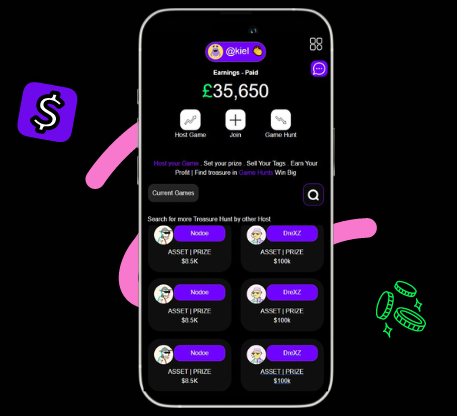
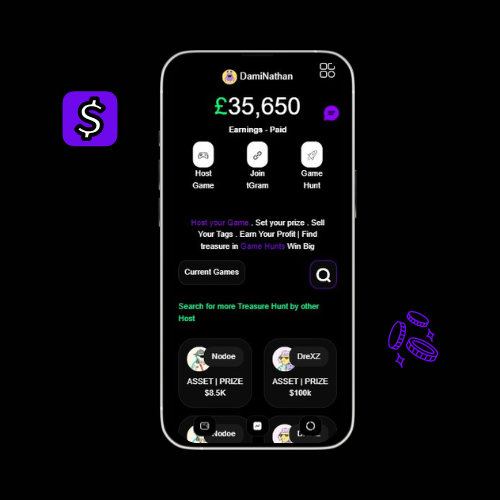
sir d

Changed region(s): [[0.1838, 0.0, 0.8271, 1.0], [0.0306, 0.1562, 0.2451, 0.3438], [0.7659, 0.625, 0.9497, 0.8125]]

diff --git a/SearchGames.html b/SearchGames.html
@@ -156,21 +156,21 @@
 
 <section class="MOB">
    
-
- <!-- The profile Header -->
-<section style="margin-top: 0.1rem; margin-bottom: 1rem; "  class="text-left  ">
-    <div class="text-center">
-      <button style="background-color: #7300ff; border: 2px solid rgb(99, 63, 141); padding: 0.3rem; border-radius: 2rem; ">
-        <div class=" text-white  o8 ">
-          <img class="p-img" src="./images/00 (1).png" width="40"  >
-          @kiel  👏
-          </div>
-      </button>
+  
+<!-- The profile Header -->
+<section style=" margin-bottom: 0.2rem; "  class="text-left  ">
+  <div class="text-center">
+    <div style=" padding: 0.3rem; border-radius: 1rem; ">
+      <div style="font-size: 1.2rem;" class=" text-white  o8 ">
+        <img class="p-img" src="./images/00 (1).png" width="30"  >
+        DamiNathan
+        </div>
     </div>
-  
-  
-  </section>
-  <!-- The profile header -->
+  </div>
+
+
+</section>
+<!-- The profile header -->
 
 
   <!-- ------------------------------------------ -->
@@ -339,7 +339,7 @@
                    </a>
                 </div>
                 <div class="col col-md-6 mb-3">
-                   <a  href="./Description.html">
+                   <a  style="text-decoration: none;" href="./Description.html">
                     <div class="custom-card">
                       <div class="row">
                           <div class="col-3"><img src="./images/dog (4).jpg" width="50" alt="Dog Image"></div>
@@ -659,21 +659,21 @@
 <div style=" padding: 3rem;
 border: 5px solid rgb(17, 17, 17); border-radius: 6rem; background-color: #000000;">
 
+  
+<!-- The profile Header -->
+<section style=" margin-bottom: 0.2rem; "  class="text-left  ">
+  <div class="text-center">
+    <div style=" padding: 0.3rem; border-radius: 1rem; ">
+      <div style="font-size: 1.2rem;" class=" text-white  o8 ">
+        <img class="p-img" src="./images/00 (1).png" width="30"  >
+        DamiNathan
+        </div>
+    </div>
+  </div>
 
-       <!-- The profile Header -->
-       <section style="margin-top: 0.1rem; margin-bottom: 1rem; "  class="text-left  ">
-           <div class="text-center">
-             <button style="background-color: #7300ff; border: 2px solid rgb(99, 63, 141); padding: 0.3rem; border-radius: 2rem; ">
-               <div class=" text-white  o8 ">
-                 <img class="p-img" src="./images/00 (1).png" width="40"  >
-                 @kiel  👏
-                 </div>
-             </button>
-           </div>
-         
-         
-         </section>
-         <!-- The profile header -->
+
+</section>
+<!-- The profile header -->
        
        
          <!-- ------------------------------------------ -->

diff --git a/home.html b/home.html
@@ -529,7 +529,7 @@
 <!-- the earnings section -->
  <section class="text-center">
   <div>
-    <div style="color: #ffffff; font-size: 3rem; font-weight: 300;"><b style="color: #00ff6a;">£</b>35,650 </div>
+    <div style="color: #ffffff; font-size: 2rem; font-weight: 100;"><b style="color: #00ff6a;">$</b>35,650 </div>
     <b class="text-white">Earnings - Paid</b>
   </div>
 
@@ -546,20 +546,20 @@
     <div class="buttonn">
       <a style="text-decoration: none;" href="./hosting.html" class="buttonn">
         <i><img src="./images/arrow-upper-right.png" width="20"></i>
-        <span>Host Game</span>
+        <span>Host</span>
       </a>
     </div>
     <div class="buttonn">
         <a style="text-decoration: none;" href="#" class="buttonn">
           
           <i><img src="./images/plus.png" width="20"></i>
-        <span>Join tGram</span>
+        <span>t.me</span>
         </a>
     </div>
     <div class="buttonn">
         <a style="text-decoration: none;" href="./game.html" class="buttonn">
           <i><img src="./images/arrow (1).png" width="20"></i>
-        <span>Game Hunt</span>
+        <span>Game</span>
         </a>
     </div>
   </div>
@@ -597,7 +597,7 @@ border: 0px solid rgb(54, 54, 54); padding: 1rem; border-radius: 1.5rem; ">
   <div class="col">
     <div class="text-end  ">
       <a href="./SearchGames.html">
-        <button  style="background-color: #0a0a0a; border: 1px solid rgb(132, 0, 255);  padding: 0.7rem; border-radius: 1rem;">
+        <button  style="background-color: #0a0a0a; border: 1px solid rgb(56, 56, 56);  padding: 0.7rem; border-radius: 1rem;">
         <div style="font-size: 1.3rem;" class="text-white ">
          <img src="./images/search (1).png" width="30">
         </div>

diff --git a/farm.html b/farm.html
@@ -148,16 +148,16 @@
      class="container MOB">
      
 
- 
+   
 <!-- The profile Header -->
-<section style=" margin-bottom: 1rem; "  class="text-left  ">
+<section style=" margin-bottom: 0.2rem; "  class="text-left  ">
   <div class="text-center">
-    <button style="background-color: #131313; border: 2px solid rgb(0, 0, 0); padding: 0.3rem; border-radius: 1rem; ">
+    <div style=" padding: 0.3rem; border-radius: 1rem; ">
       <div style="font-size: 1.2rem;" class=" text-white  o8 ">
-        <img class="p-img" src="./images/00 (1).png" width="20"  >
+        <img class="p-img" src="./images/00 (1).png" width="30"  >
         DamiNathan
         </div>
-    </button>
+    </div>
   </div>
 
 

diff --git a/profile.html b/profile.html
@@ -120,7 +120,7 @@
  
  <br>
  <!-- ------------------------------------------------------------------------- -->
- <div class="text-left">
+ <div class="text-center">
    <!-- The bio profile-->
    <p>
      The bAddeSSt GaMEr  Alive 450k games played 👏
@@ -178,7 +178,7 @@
   </section>
  <!-- Edit profile button -->
   <br>
- <div class="text-end">
+ <div class="text-center">
   <a>
     <button style=" font-size: 1rem; padding: 1rem; color: white; border: 1px solid black; border-radius: 1rem; background-color: #181818;">
      Edit Profile

diff --git a/signup.html b/signup.html
@@ -75,7 +75,7 @@
 
       <div class="container">
         <p class="navbar-brand text-white" >
-          <img src="./images/K (2).png" width="50" style="border-radius: 9rem; border: 1px solid black;">
+          <img src="./images/K (2).png" width="40" style="border-radius: 9rem; border: 1px solid black;">
           Krome
       </p>
       </div>

diff --git a/css/Main.css b/css/Main.css
@@ -14,6 +14,7 @@
 
 }
 
+
 /*  */
 
 /* design For Navigation Menu  starts*/
